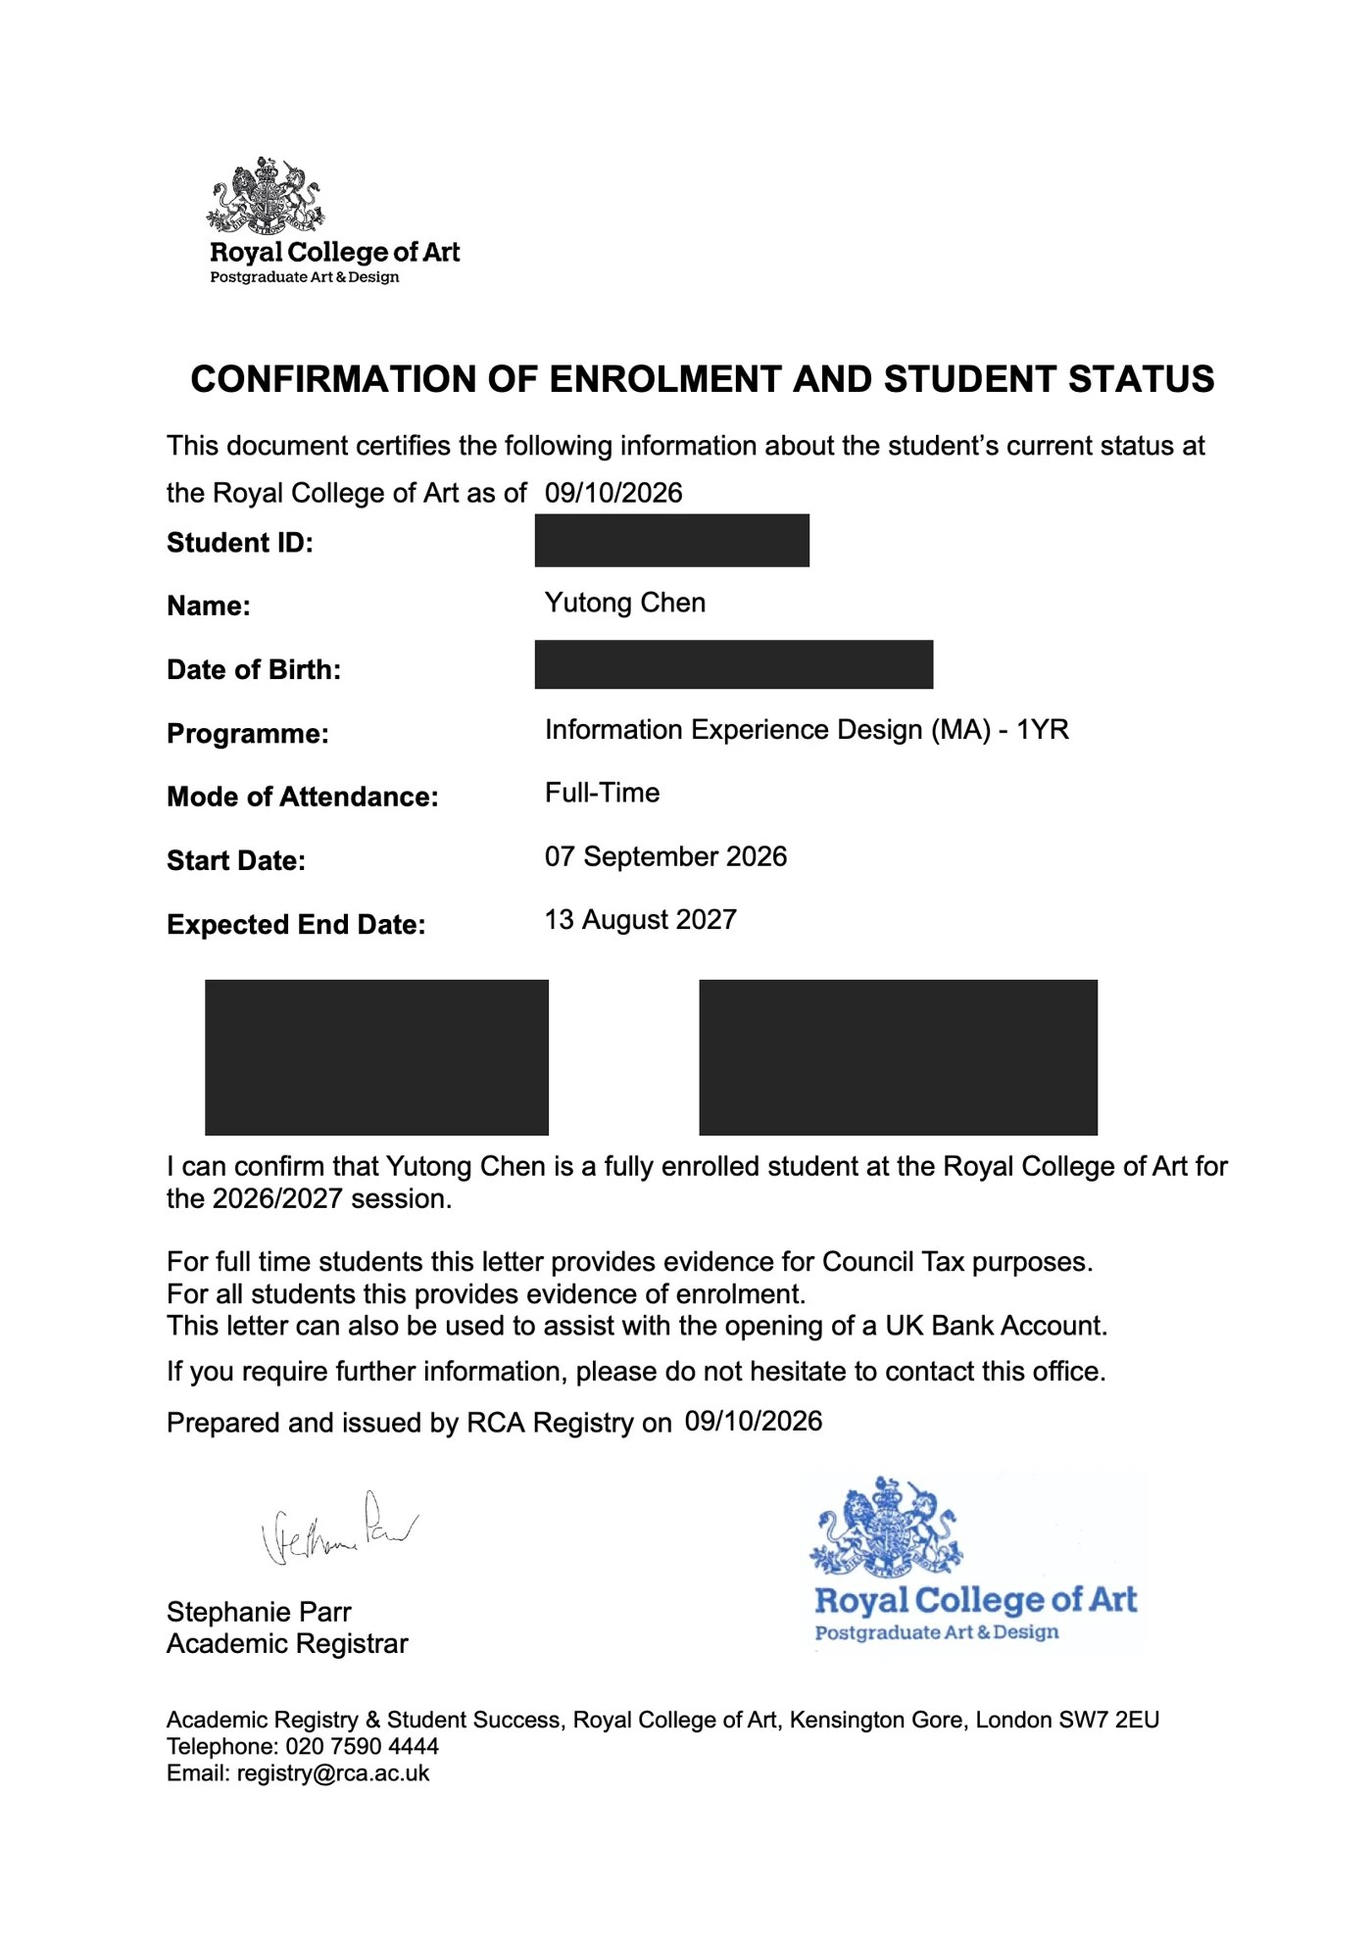
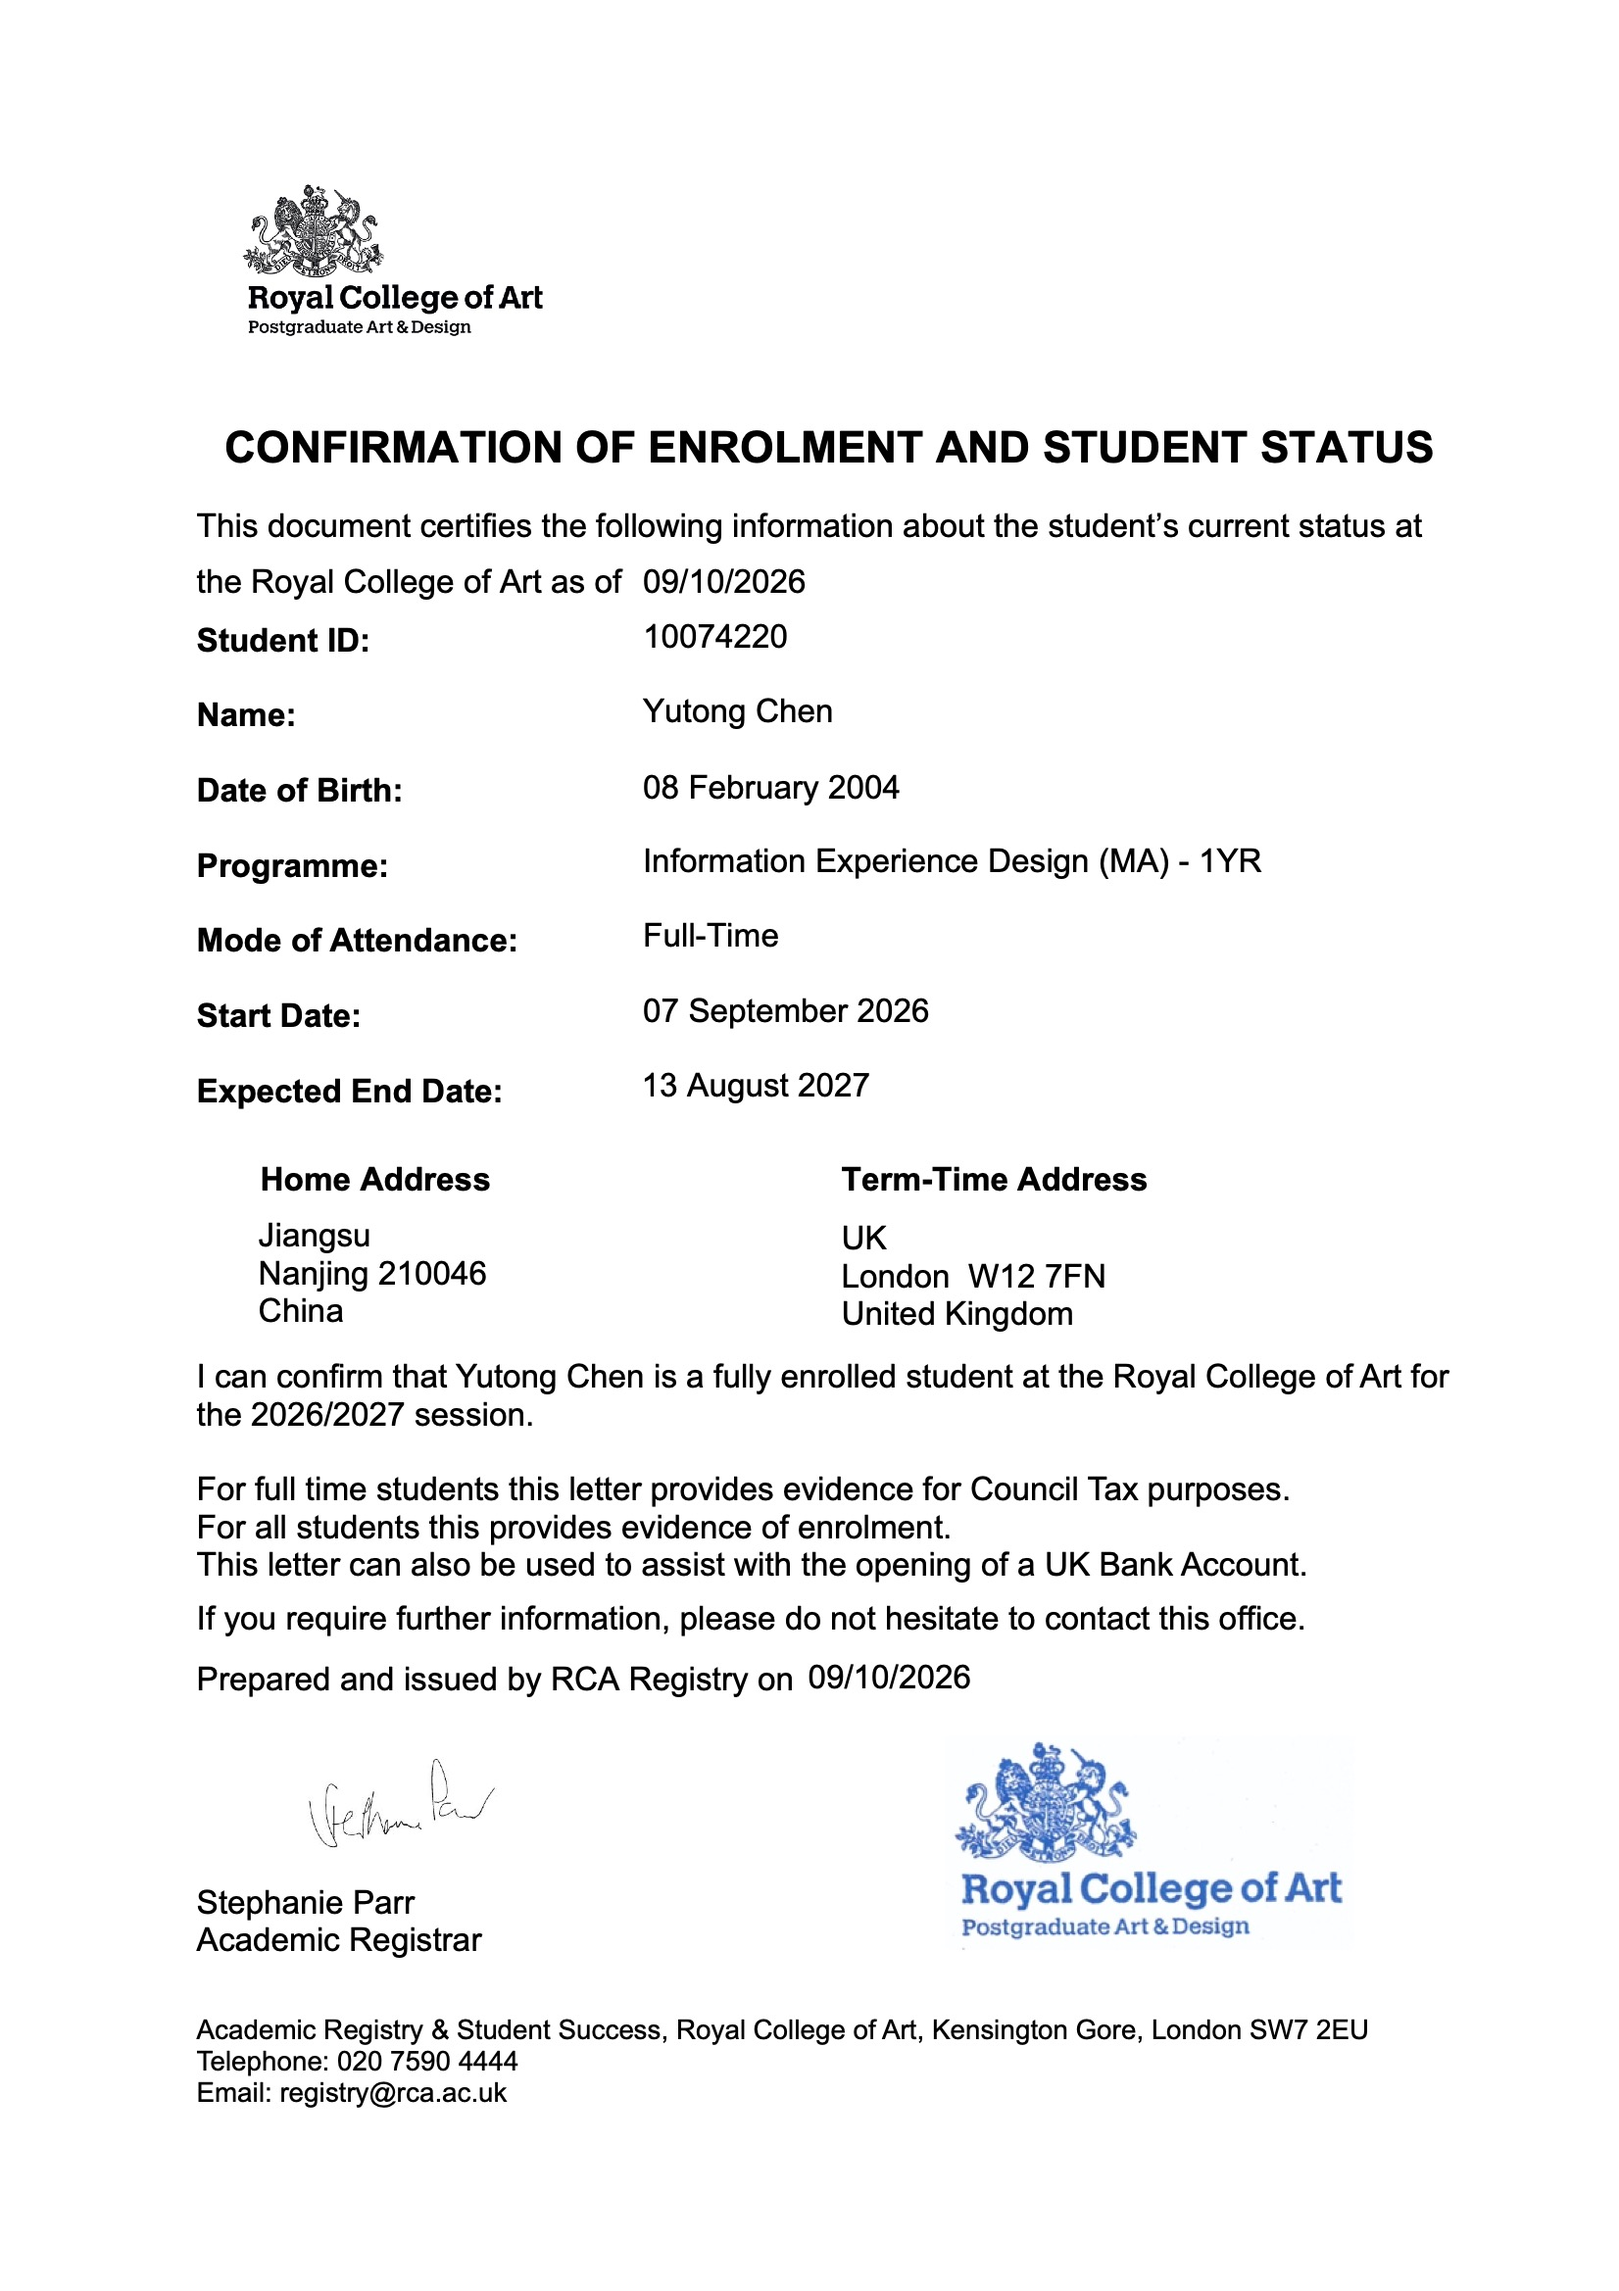
Show original unredacted academic documents

Changed region(s): [[0.3686, 0.2463, 0.6757, 0.3695], [0.4914, 0.4927, 0.7986, 0.5851], [0.1229, 0.4927, 0.3993, 0.5851]]

diff --git a/about/index.html b/about/index.html
@@ -56,8 +56,8 @@
       <section class="about-section about-history">
         <h2>Education</h2>
         <div class="about-rows">
-          <div class="about-row about-row--new-period"><span class="about-period">2026–Present</span><div class="education-entry"><p><strong>MA Information Experience Design</strong> | Royal College of Art, London · Expected 2027<span class="about-cn" lang="zh-CN">皇家艺术学院 · 信息体验设计硕士 · 伦敦</span></p><details class="award-certificate education-evidence"><summary>Enrolment confirmation / 硕士在读证明</summary><div class="education-documents"><a href="../assets/education/rca-enrolment.webp" target="_blank" rel="noopener"><img src="../assets/education/rca-enrolment.webp" alt="Royal College of Art enrolment confirmation; personal identifiers redacted" loading="lazy"></a></div></details></div></div>
-          <div class="about-row about-row--new-period"><span class="about-period">2022–2026</span><div class="education-entry"><p><strong>BA Digital Media Art</strong> | Harbin Institute of Technology, Shenzhen · <strong class="gpa-value">GPA 3.415/4.0</strong> · IELTS 6.0<span class="about-cn" lang="zh-CN">哈尔滨工业大学（深圳）· 数字媒体艺术学士</span></p><details class="award-certificate education-evidence"><summary>Academic transcript · 2 pages / 本科成绩单（两页）</summary><div class="education-documents"><a href="../assets/education/hit-transcript-1.webp" target="_blank" rel="noopener"><img src="../assets/education/hit-transcript-1.webp" alt="HIT Shenzhen academic transcript page 1; personal identifiers redacted" loading="lazy"></a><a href="../assets/education/hit-transcript-2.webp" target="_blank" rel="noopener"><img src="../assets/education/hit-transcript-2.webp" alt="HIT Shenzhen academic transcript page 2; personal identifiers redacted" loading="lazy"></a></div></details><details class="award-certificate education-evidence"><summary>Degree & graduation certificates / 学位及毕业证明</summary><div class="education-documents"><a href="../assets/education/hit-degree.webp" target="_blank" rel="noopener"><img src="../assets/education/hit-degree.webp" alt="HIT Bachelor of Arts degree certificate; personal identifiers redacted" loading="lazy"></a><a href="../assets/education/hit-graduation.webp" target="_blank" rel="noopener"><img src="../assets/education/hit-graduation.webp" alt="HIT graduation certificate; personal identifiers redacted" loading="lazy"></a></div></details></div></div>
+          <div class="about-row about-row--new-period"><span class="about-period">2026–Present</span><div class="education-entry"><p><strong>MA Information Experience Design</strong> | Royal College of Art, London · Expected 2027<span class="about-cn" lang="zh-CN">皇家艺术学院 · 信息体验设计硕士 · 伦敦</span></p><details class="award-certificate education-evidence"><summary>Enrolment confirmation / 硕士在读证明</summary><div class="education-documents"><a href="../assets/education/rca-enrolment-original.jpg" target="_blank" rel="noopener"><img src="../assets/education/rca-enrolment-original.jpg" alt="Royal College of Art enrolment confirmation" loading="lazy"></a></div></details></div></div>
+          <div class="about-row about-row--new-period"><span class="about-period">2022–2026</span><div class="education-entry"><p><strong>BA Digital Media Art</strong> | Harbin Institute of Technology, Shenzhen · <strong class="gpa-value">GPA 3.415/4.0</strong> · IELTS 6.0<span class="about-cn" lang="zh-CN">哈尔滨工业大学（深圳）· 数字媒体艺术学士</span></p><details class="award-certificate education-evidence"><summary>Academic transcript · 2 pages / 本科成绩单（两页）</summary><div class="education-documents"><a href="../assets/education/hit-transcript-1-original.jpg" target="_blank" rel="noopener"><img src="../assets/education/hit-transcript-1-original.jpg" alt="HIT Shenzhen academic transcript page 1" loading="lazy"></a><a href="../assets/education/hit-transcript-2-original.jpg" target="_blank" rel="noopener"><img src="../assets/education/hit-transcript-2-original.jpg" alt="HIT Shenzhen academic transcript page 2" loading="lazy"></a></div></details><details class="award-certificate education-evidence"><summary>Degree & graduation certificates / 学位及毕业证明</summary><div class="education-documents"><a href="../assets/education/hit-degree-original.jpg" target="_blank" rel="noopener"><img src="../assets/education/hit-degree-original.jpg" alt="HIT Bachelor of Arts degree certificate" loading="lazy"></a><a href="../assets/education/hit-graduation-original.jpg" target="_blank" rel="noopener"><img src="../assets/education/hit-graduation-original.jpg" alt="HIT graduation certificate" loading="lazy"></a></div></details></div></div>
           <div class="about-row about-row--new-period"><span class="about-period">2025</span><p><strong>HKUST InnoBay Summer Camp</strong> | Interdisciplinary Innovation Programme, Hong Kong<span class="about-cn" lang="zh-CN">香港科技大学 InnoBay 科创营 · 跨学科创新项目</span></p></div>
           <div class="about-row about-row--new-period"><span class="about-period">2024</span><p><strong>Repin Academy Preparatory Studio</strong> | Advanced Sketch Training · Ivan Logvinov Studio<span class="about-cn" lang="zh-CN">列宾美术学院南京预科班 · 素描高级研修</span></p></div>
         </div>
